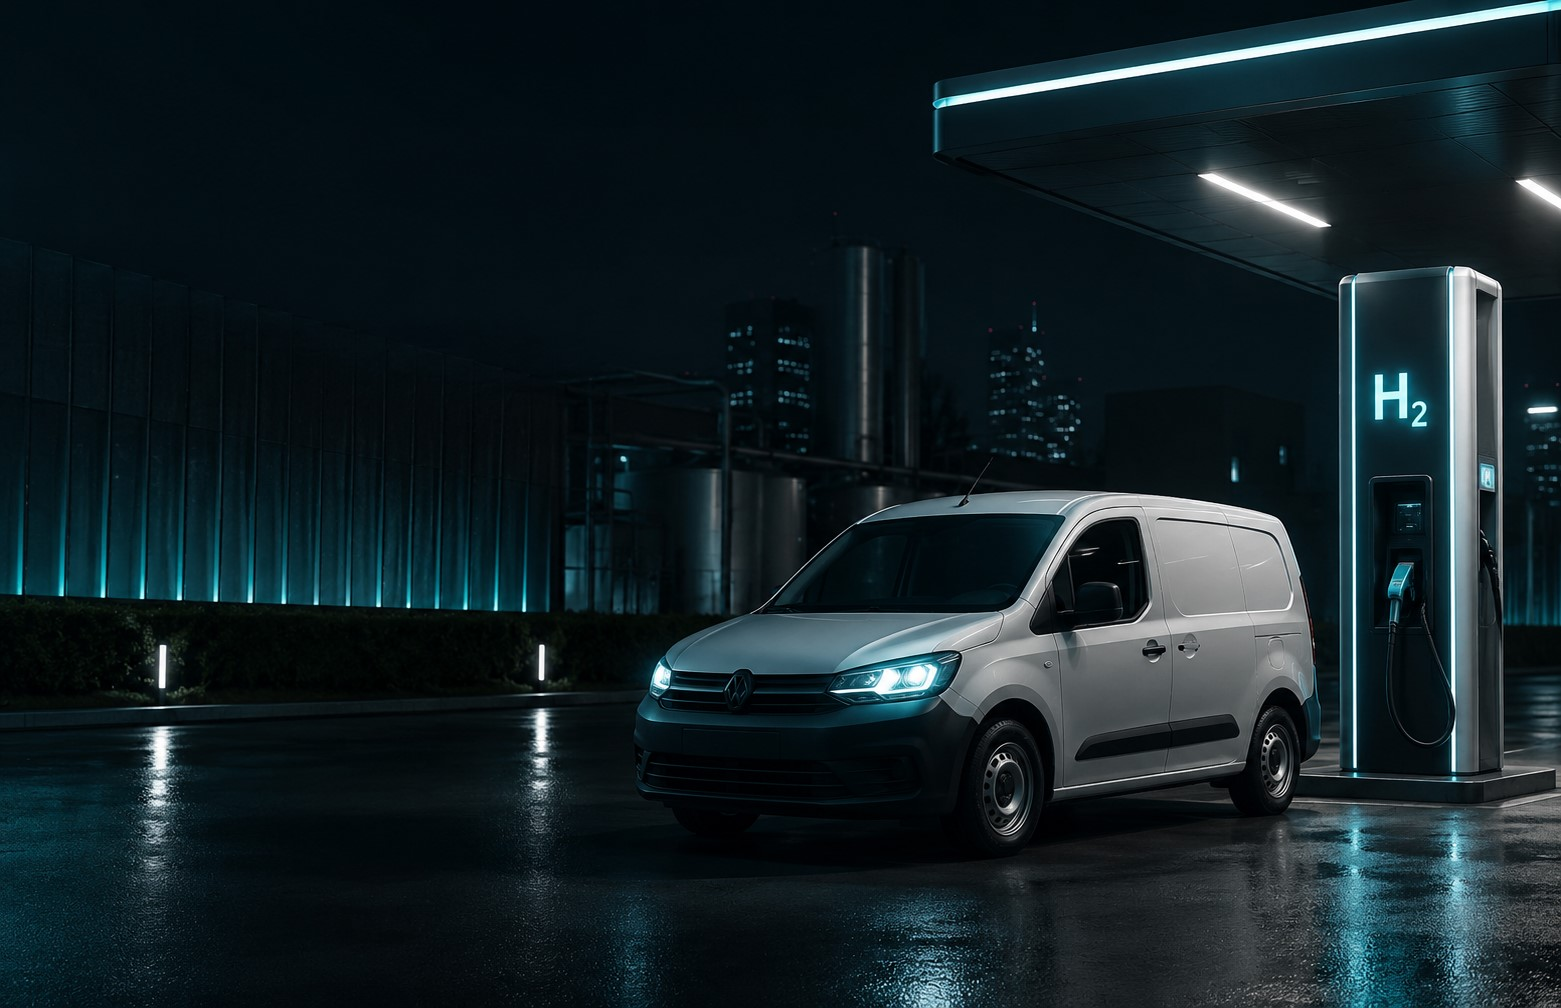
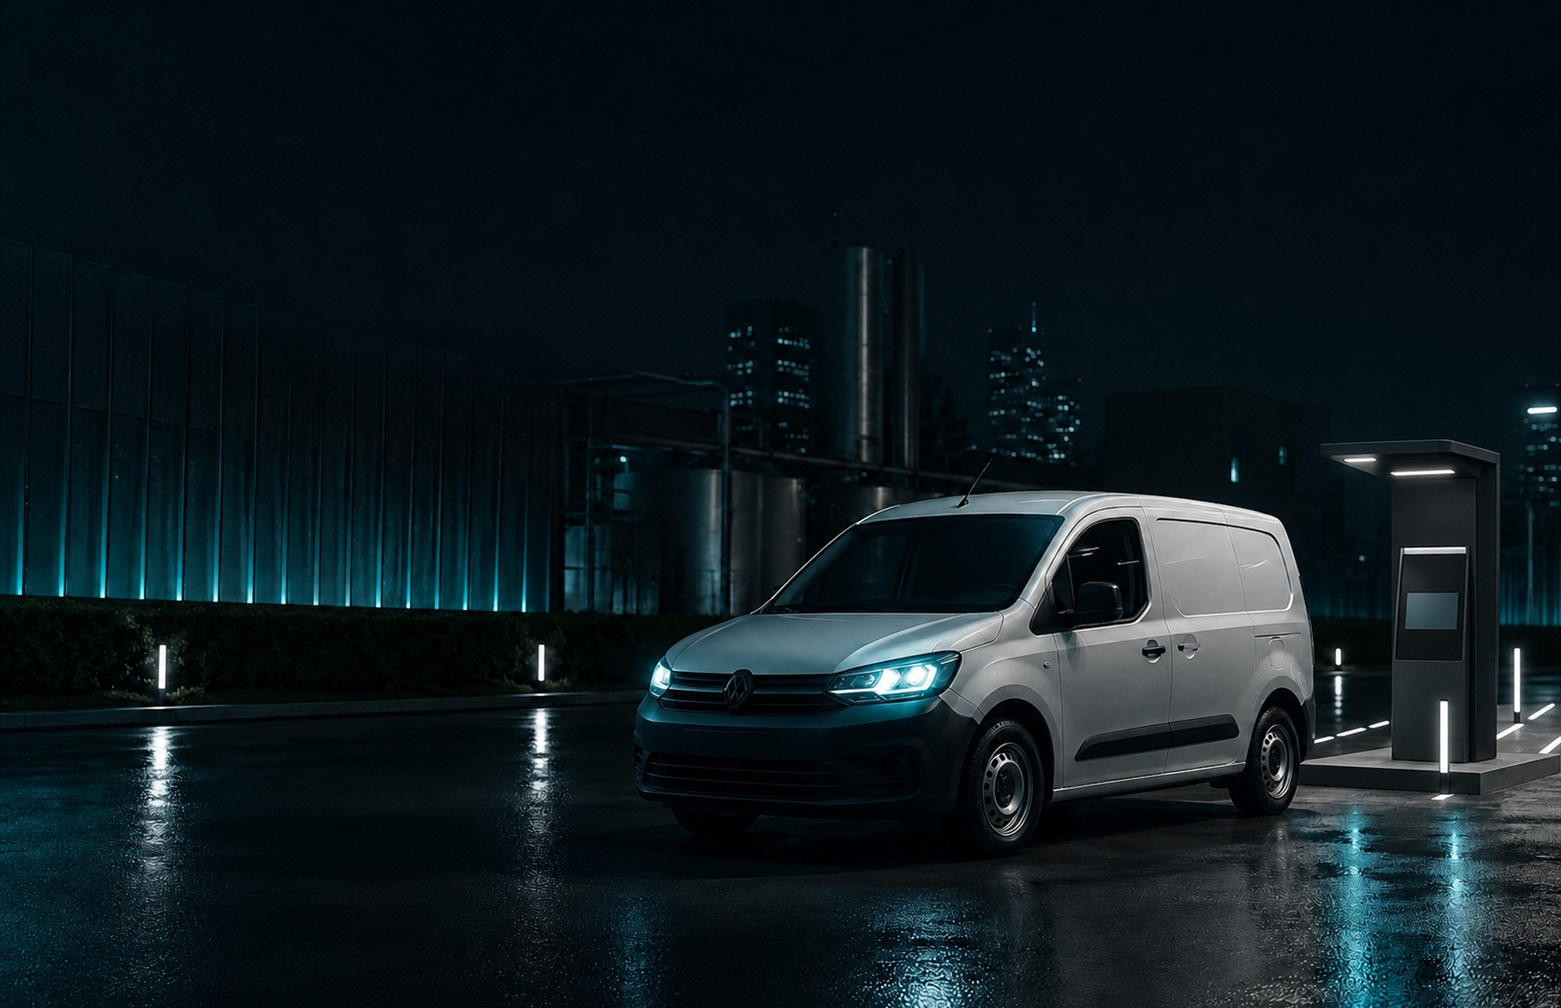
fix: neutralizar referencias tecnologicas publicas

diff --git a/index.html b/index.html
@@ -6,7 +6,7 @@
     ================================================== -->
     <meta charset="utf-8">
     <title>Logistyka | Logística inversa y trazabilidad</title>
-    <meta name="description" content="Movilidad logística, logística inversa y trazabilidad para cadenas circulares impulsadas por hidrógeno.">
+    <meta name="description" content="Movilidad logística, logística inversa y trazabilidad para cadenas circulares inteligentes y sostenibles.">
     <meta name="author" content="Logistyka">
     <meta name="robots" content="index, follow">
     <link rel="canonical" href="https://logistyka.hidrogenoverdeturquesa.com/">
@@ -17,7 +17,7 @@
     <meta property="og:locale" content="es_CO">
     <meta property="og:site_name" content="Logistyka">
     <meta property="og:title" content="Logistyka | Logística inversa y trazabilidad">
-    <meta property="og:description" content="Movilidad logística, logística inversa y trazabilidad para cadenas circulares de productos, materiales y residuos valorizables mediante el vector hidrógeno.">
+    <meta property="og:description" content="Logística inversa, trazabilidad y analítica de rutas para cadenas circulares, valorización de materiales e indicadores ESG.">
     <meta property="og:url" content="https://logistyka.hidrogenoverdeturquesa.com/">
     <meta property="og:image" content="https://logistyka.hidrogenoverdeturquesa.com/images/Portada.jpg">
     <meta property="og:image:type" content="image/jpeg">
@@ -26,7 +26,7 @@
     <meta property="og:image:alt" content="Logistyka - movilidad logística y trazabilidad para cadenas circulares">
     <meta name="twitter:card" content="summary_large_image">
     <meta name="twitter:title" content="Logistyka | Logística inversa y trazabilidad">
-    <meta name="twitter:description" content="Movilidad logística, logística inversa y trazabilidad para cadenas circulares impulsadas por hidrógeno.">
+    <meta name="twitter:description" content="Movilidad logística, logística inversa y trazabilidad para cadenas circulares inteligentes y sostenibles.">
     <meta name="twitter:image" content="https://logistyka.hidrogenoverdeturquesa.com/images/Portada.jpg">
     <meta name="theme-color" content="#080f1c">
     <script type="application/ld+json">
@@ -42,7 +42,7 @@
           "image": "https://logistyka.hidrogenoverdeturquesa.com/images/Portada.jpg",
           "email": "logistyka@hidrogenoverdeturquesa.com",
           "telephone": "+57 311 864 5518",
-          "description": "Movilidad logística, logística inversa y trazabilidad para cadenas circulares impulsadas por hidrógeno.",
+          "description": "Plataforma de movilidad logística, logística inversa, trazabilidad y analítica para operaciones circulares sostenibles.",
           "areaServed": {
             "@type": "Country",
             "name": "Colombia"
@@ -168,7 +168,7 @@
                     <p>
                     Movilidad logística, trazabilidad <br>
                     y logística inversa para cadenas <br>
-                    circulares impulsadas por hidrógeno.
+                    circulares inteligentes y sostenibles.
                     </p>
     
                     <footer>
@@ -220,7 +220,7 @@
                 </h2>
 
                 <p class="lead" data-aos="fade-up">
-                    Integramos procesos de recolección, retorno, clasificación, valorización y redistribución mediante analítica logística, seguimiento operativo y el hidrógeno como vector energético para operaciones más limpias.
+                    Integramos procesos de recolección, retorno, clasificación, valorización y redistribución mediante analítica logística, seguimiento operativo y herramientas para mejorar la eficiencia de las operaciones circulares.
                 </p>
             </div>
 
@@ -298,9 +298,9 @@
             </div>
             <div class="column item item-service" data-aos="fade-up">
                 <span class="service-icon service-icon--frontend"></span>
-                <h3 class="item-title">Movilidad limpia</h3>
+                <h3 class="item-title">Movilidad sostenible</h3>
                 <p>
-                Planeación de operaciones con vehículos eléctricos, híbridos o impulsados por hidrógeno, según disponibilidad técnica, costo y alcance territorial.
+                Planeación de operaciones considerando alternativas de movilidad de bajas emisiones según disponibilidad técnica, costo, capacidad operativa y alcance territorial.
                 </p>
             </div>
             <div class="column item item-service" data-aos="fade-up">
@@ -404,16 +404,16 @@
                     <div class="folio-item__thumb">
                         <a class="folio-item__thumb-link" href="images/portfolio/gallery/g-corrugated-sheets.jpg" title="Operación limpia" data-size="1561x1008">
                             <img src="images/portfolio/corrugated-sheets.jpg" 
-                                 srcset="images/portfolio/corrugated-sheets.jpg 1x, images/portfolio/corrugated-sheets@2x.jpg 2x" alt="Movilidad limpia aplicada a operaciones logísticas">
+                                 srcset="images/portfolio/corrugated-sheets.jpg 1x, images/portfolio/corrugated-sheets@2x.jpg 2x" alt="Movilidad sostenible aplicada a operaciones logísticas">
                         </a>
                     </div>
                     <div class="folio-item__info">
-                        <div class="folio-item__cat">Vector hidrógeno</div>
+                        <div class="folio-item__cat">Movilidad sostenible</div>
                         <h4 class="folio-item__title">Operación limpia</h4>
                     </div>
                     <a href="#contact" title="Hablar sobre operación limpia" class="folio-item__project-link smoothscroll">Consultar</a>
                     <div class="folio-item__caption">
-                        <p>Evaluación de movilidad limpia para operaciones donde el hidrógeno pueda apoyar la transición energética.</p>
+                        <p>Evaluación de alternativas operativas para reducir emisiones, recorridos innecesarios y consumo energético en redes logísticas.</p>
                     </div>
                 </div>
             </div> <!-- end column -->
@@ -524,13 +524,13 @@
     
                     <div class="testimonial-slider__slide">
                         <p>
-                        El vector hidrógeno puede ser una pieza energética para rutas limpias, centros de acopio y operaciones donde la autonomía sea crítica.
+                        La optimización logística permite evaluar rutas, cargas, frecuencias y alternativas operativas para reducir consumo, costos y emisiones.
                         </p>
                         <div class="testimonial-slider__author">
                             <img src="images/avatars/user-04.jpg" alt="" aria-hidden="true" class="testimonial-slider__avatar">
                             <cite class="testimonial-slider__cite">
-                                <strong>Hidrógeno</strong>
-                                <span>Movilidad limpia</span>
+                                <strong>Optimización</strong>
+                                <span>Movilidad sostenible</span>
                             </cite>
                         </div>
                     </div> <!-- end testimonials__slide -->
@@ -577,7 +577,7 @@
                     <a href="https://wa.me/573118645518?text=Hola,%20quiero%20saber%20mas%20sobre%20Logistyka">WhatsApp +57 311 864 5518</a>
                 </p>
                 <p class="logistyka-contact-mail">
-                    <a href="mailto:logistyka@hidrogenoverdeturquesa.com">logistyka@hidrogenoverdeturquesa.com</a>
+                    <a href="mailto:logistyka@hidrogenoverdeturquesa.com">Escribir a Logistyka</a>
                 </p>
             </div>
         </div>
@@ -597,9 +597,9 @@
         
                         <p>
                         Colombia <br>
-                        Operaciones circulares, movilidad limpia <br>
+                        Operaciones circulares, movilidad sostenible <br>
                         y trazabilidad logística <br>
-                        <a href="mailto:logistyka@hidrogenoverdeturquesa.com">logistyka@hidrogenoverdeturquesa.com</a><br>
+                        <a href="mailto:logistyka@hidrogenoverdeturquesa.com">Escribir a Logistyka</a><br>
                         <a href="tel:+573118645518">+57 311 864 5518</a>
                         </p>
                     </div>
@@ -611,7 +611,7 @@
                             <li><a class="smoothscroll" href="#services">Logística inversa</a></li>
                             <li><a class="smoothscroll" href="#services">Trazabilidad</a></li>
                             <li><a class="smoothscroll" href="#portfolio">Cadenas circulares</a></li>
-                            <li><a class="smoothscroll" href="#portfolio">Vector hidrógeno</a></li>
+                            <li><a class="smoothscroll" href="#portfolio">Movilidad sostenible</a></li>
                         </ul>
                     </div>
                 </div>

diff --git a/README.md b/README.md
@@ -1,5 +1,5 @@
 # Logistyka
 
-Movilidad logística, trazabilidad y logística inversa para cadenas circulares impulsadas por hidrógeno.
+Movilidad logística, trazabilidad y logística inversa para cadenas circulares inteligentes y sostenibles.
 
 Sitio estático basado en la plantilla Flare de StyleShout.
